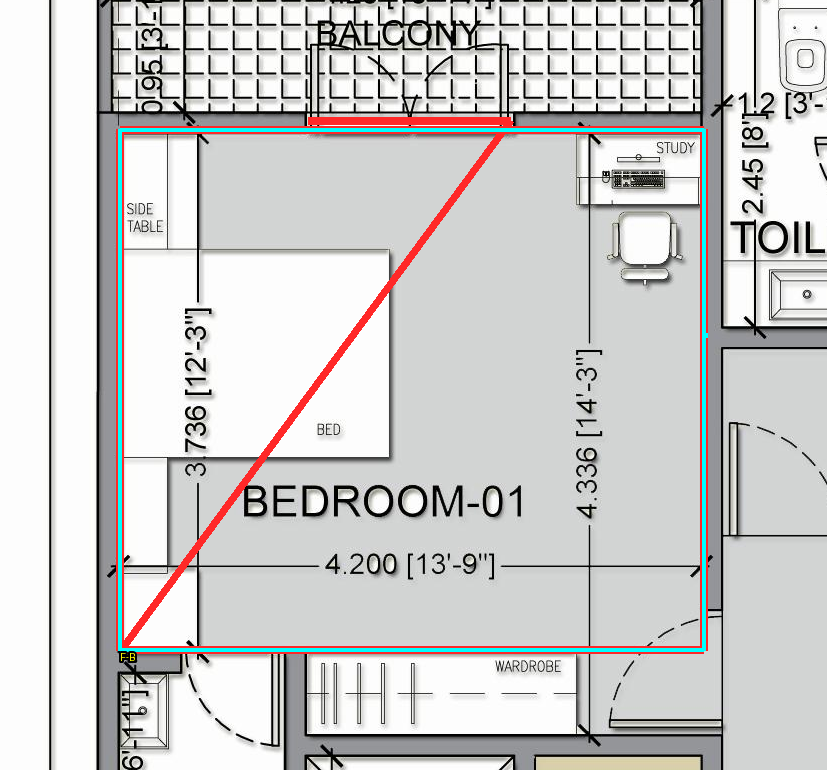
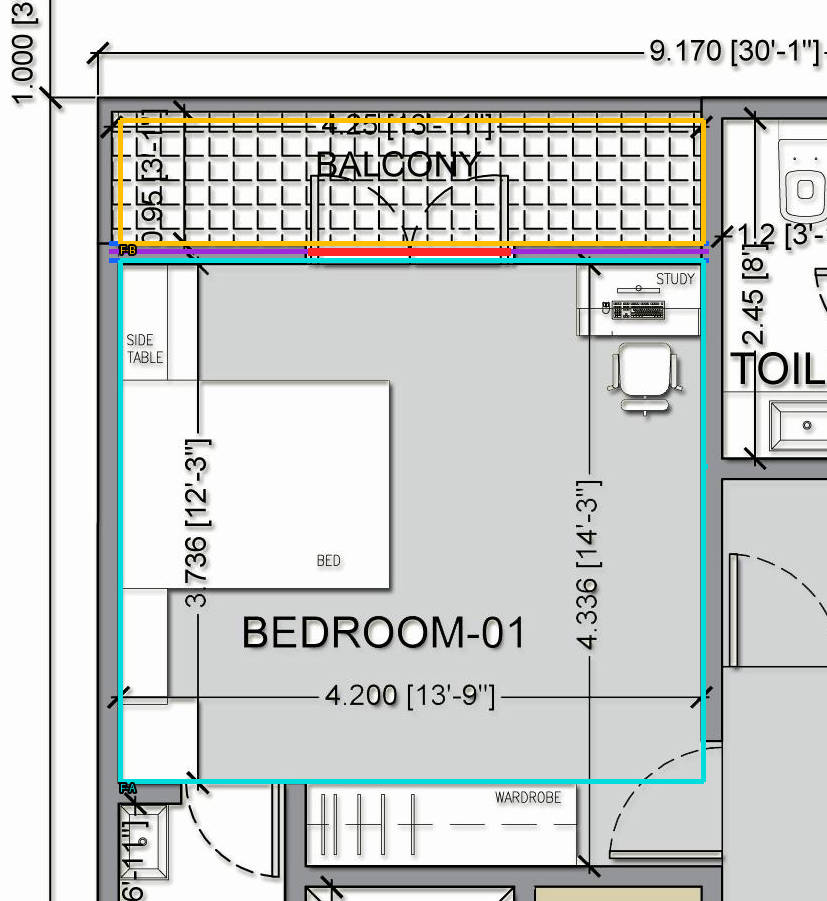
fix: require distinct targeted pre-cut faces

diff --git a/tools/goal_loop_v2/build_targeted_cut_adjudication.py b/tools/goal_loop_v2/build_targeted_cut_adjudication.py
@@ -1,6 +1,6 @@
 """Render neutral geometric adjudication overlays for stable cut candidates."""
 from pathlib import Path
-import json,hashlib
+import json,hashlib,math
 from PIL import Image,ImageDraw
 from shapely.geometry import Point,Polygon
 from tools.fastloop_research.contract import canonical_json
@@ -11,23 +11,39 @@ from tools.goal_loop_v2.registration import _inverse,_apply,validate_pixel_metri
 ROOT=Path(__file__).resolve().parents[2]; DOC=ROOT/'data/goal_loop_v2/references/1308/reference-coordinate-authorized-v21.json'; REF=ROOT/'data/goal_loop_v2/references/1308/canonical-raw-portrait.png'; MATRIX=ROOT/'reports/candidate_opening_cut_impact_20260902/candidate-opening-cut-impact.json'; OUT=ROOT/'reports/targeted_cut_adjudication_20260902'; IDS=('OP003','OP004','OP009')
 def sha(p):return hashlib.sha256(p.read_bytes()).hexdigest()
 def h(v):return hashlib.sha256(canonical_json(v)).hexdigest()
+def host_geometry(atom,segment):
+ a,b=atom['centerline_m'];dx,dy=b[0]-a[0],b[1]-a[1];length=math.hypot(dx,dy);nx,ny=-dy/length,dx/length;half=atom['thickness_m']/2
+ faces=[[[a[0]+nx*half,a[1]+ny*half],[b[0]+nx*half,b[1]+ny*half]],[[a[0]-nx*half,a[1]-ny*half],[b[0]-nx*half,b[1]-ny*half]]]
+ params=[((p[0]-a[0])*dx+(p[1]-a[1])*dy)/(length*length) for p in segment];lo,hi=min(params),max(params);before=max(0,lo*length);after=max(0,(1-hi)*length)
+ return faces,{'host_parameters':[round(v,9) for v in params],'jamb_before_m':round(before,9),'jamb_after_m':round(after,9),'minimum_jamb_m':round(min(before,after),9),'candidate_minimum_m':.12,'candidate_sufficient':min(before,after)>=.12}
+def draw_geometry(image,box,inv,pts,host,faces):
+ dr=ImageDraw.Draw(image);offset=(box[0],box[1])
+ def px(p):q=_apply(inv,p);return (q[0]-offset[0],q[1]-offset[1])
+ center=[px(p) for p in host['centerline_m']];dr.line(center,fill=(160,40,220),width=5)
+ host_faces,_=host_geometry(host,pts)
+ for line in host_faces:dr.line([px(p) for p in line],fill=(20,100,255),width=5)
+ for index,f in enumerate(faces):
+  poly=[px(q) for q in f['polygon']];color=(0,220,220) if index==0 else (255,190,0);dr.line(poly+[poly[0]],fill=color,width=5);dr.text(poly[0],f['label'],fill=color,stroke_width=2,stroke_fill=(0,0,0))
+ dr.line([px(p) for p in pts],fill=(255,40,40),width=8)
 def main():
  OUT.mkdir(parents=True,exist_ok=True)
  d=json.loads(DOC.read_text()); m=d['source']['metric_registration']['canonical_px_to_metric_3x3']; im=Image.open(REF).convert('RGB'); base=_surface_geometry(build_target_aware_wall_solids(d)['wall_union']['solid_m']); outer=Polygon(d['outer_boundary']['polygon_m']); free=outer.difference(base.intersection(outer)); parts=[p for p in _polygon_parts(free) if p.area>=.05]; impacts=json.loads(MATRIX.read_text())['openings']; rows=[]
  for x in impacts:
   if x['opening_id'] not in IDS:continue
   oid=x['opening_id']; seg=x['segment_m']; px=[list(_apply(_inverse(m),p)) for p in seg]; reg=validate_pixel_metric_segment(m,px,seg,1.0); host=next(a for a in d['wall_graph']['atoms'] if a['id']==x['host_atom_id']); post=base.difference(_cut_polygon(seg,host['thickness_m'],0,1e-6)); merged=x['merged_groups'][0]; faces=[]
-  for name,geom in (('F-A',base),('F-B',base)):
-   ids=[]
+  for name,space_id in zip(('F-A','F-B'),merged):
+   matches=[]
    for p in parts:
-    labels=[s['id'] for s in d['spaces'] if p.covers(Point(s['point_m']))]
-    if set(labels)&set(merged):ids.extend(labels); faces.append({'label':name,'space_ids':sorted(set(labels)),'polygon_hash':h(list(p.exterior.coords)),'polygon':list(p.exterior.coords)}) ; break
+    labels=sorted(s['id'] for s in d['spaces'] if p.covers(Point(s['point_m'])))
+    if space_id in labels:matches.append((p,labels))
+   if len(matches)!=1 or matches[0][1]!=[space_id]:raise ValueError(f'{oid} pre-cut face for {space_id} is not unique single-anchor')
+   p,labels=matches[0];faces.append({'label':name,'space_ids':labels,'polygon_hash':h(list(p.exterior.coords)),'polygon':list(p.exterior.coords)})
+  if faces[0]['polygon_hash']==faces[1]['polygon_hash']:raise ValueError(f'{oid} targeted pre-cut faces are identical')
+  host_faces,jamb=host_geometry(host,seg)
   pts=[tuple(px[0]),tuple(px[1])]; allxy=pts
   for f in faces:
    allxy += [tuple(_apply(_inverse(m),q)) for q in f['polygon']]
-  pad=120; box=(max(0,int(min(q[0] for q in allxy)-pad)),max(0,int(min(q[1] for q in allxy)-pad)),min(im.width,int(max(q[0] for q in allxy)+pad)),min(im.height,int(max(q[1] for q in allxy)+pad))); crop=im.crop(box); dr=ImageDraw.Draw(crop); local=[(q[0]-box[0],q[1]-box[1]) for q in pts]; dr.line(local,fill=(255,40,40),width=8)
-  for i,f in enumerate(faces):
-   poly=[(_apply(_inverse(m),q)[0]-box[0],_apply(_inverse(m),q)[1]-box[1]) for q in f['polygon']]; dr.line(poly+[poly[0]],fill=(0,255,255),width=4); dr.text(poly[0],f['label'],fill=(255,255,0),stroke_width=2,stroke_fill=(0,0,0))
-  cp=OUT/f'{oid}-crop.png';crop.save(cp);full=im.copy();ImageDraw.Draw(full).line(pts,fill=(255,40,40),width=8);fp=OUT/f'{oid}-full.png';full.save(fp);rows.append({'opening_id':oid,'segment_m':seg,'registration':reg,'host_atom_id':host['id'],'host_thickness_m':host['thickness_m'],'merged_group':merged,'pre_cut_faces':faces,'post_cut_anchor_groups':x['post_cut_anchor_groups'],'sensitivity_stable':all(s['merged_groups']==x['merged_groups'] for s in x['sensitivity']) and all(s['merged_groups']==x['merged_groups'] for s in x['endpoint_sensitivity']),'artifacts':{'crop':{'path':str(cp.resolve()),'sha256':sha(cp)},'full':{'path':str(fp.resolve()),'sha256':sha(fp)}},'cut_confirmation':False,'pair_confirmation':False,'adjacency_confirmation':False,'build_authorized':False})
+  pad=120; box=(max(0,int(min(q[0] for q in allxy)-pad)),max(0,int(min(q[1] for q in allxy)-pad)),min(im.width,int(max(q[0] for q in allxy)+pad)),min(im.height,int(max(q[1] for q in allxy)+pad)));crop=im.crop(box);inv=_inverse(m);draw_geometry(crop,box,inv,seg,host,faces)
+  cp=OUT/f'{oid}-crop.png';crop.save(cp);full=im.copy();draw_geometry(full,(0,0,im.width,im.height),inv,seg,host,faces);fp=OUT/f'{oid}-full.png';full.save(fp);rows.append({'opening_id':oid,'segment_m':seg,'registration':reg,'host_atom_id':host['id'],'host_centerline_m':host['centerline_m'],'host_thickness_m':host['thickness_m'],'host_face_segments_m':host_faces,'jamb_support':jamb,'merged_group':merged,'pre_cut_faces':faces,'post_cut_anchor_groups':x['post_cut_anchor_groups'],'sensitivity_stable':all(s['merged_groups']==x['merged_groups'] for s in x['sensitivity']) and all(s['merged_groups']==x['merged_groups'] for s in x['endpoint_sensitivity']),'artifacts':{'crop':{'path':str(cp.resolve()),'sha256':sha(cp)},'full':{'path':str(fp.resolve()),'sha256':sha(fp)}},'cut_confirmation':False,'pair_confirmation':False,'adjacency_confirmation':False,'build_authorized':False})
  out={'schema':'targeted-cut-adjudication-evidence-v1','source_structure_hash':d['structure_hash'],'target_aware_wall_candidate_hash':json.loads(MATRIX.read_text())['target_aware_wall_candidate_hash'],'cut_impact_matrix_hash':json.loads(MATRIX.read_text())['candidate_hash'],'openings':rows,'semantic_promotion':False,'adjacency_confirmation':False,'build_authorized':False,'ready':False};out['candidate_hash']=h(out);OUT.mkdir(parents=True,exist_ok=True);(OUT/'targeted-cut-adjudication.json').write_text(json.dumps(out,indent=2)+'\n');print(out['candidate_hash'])
 if __name__=='__main__':main()

diff --git a/tests/test_targeted_cut_adjudication.py b/tests/test_targeted_cut_adjudication.py
@@ -2,5 +2,7 @@ import json
 from pathlib import Path
 from tools.goal_loop_v2.build_targeted_cut_adjudication import main
 ROOT=Path(__file__).resolve().parents[1]
-def test_targeted_triplet_is_stable_and_unpromoted():
+def test_targeted_triplet_is_stable_distinct_and_unpromoted():
  main(); d=json.loads((ROOT/'reports/targeted_cut_adjudication_20260902/targeted-cut-adjudication.json').read_text()); assert [x['opening_id'] for x in d['openings']]==['OP003','OP004','OP009']; assert all(x['sensitivity_stable'] for x in d['openings']); assert all(x['registration']['max_endpoint_error_px']<=1 for x in d['openings']); assert all(not x['cut_confirmation'] and not x['pair_confirmation'] and not x['adjacency_confirmation'] for x in d['openings']); assert all(len(a['sha256'])==64 for x in d['openings'] for a in x['artifacts'].values())
+ for row in d['openings']:
+  assert [face['space_ids'][0] for face in row['pre_cut_faces']]==row['merged_group'];assert len({face['polygon_hash'] for face in row['pre_cut_faces']})==2;assert len(row['host_face_segments_m'])==2;assert row['jamb_support']['minimum_jamb_m']>=0
